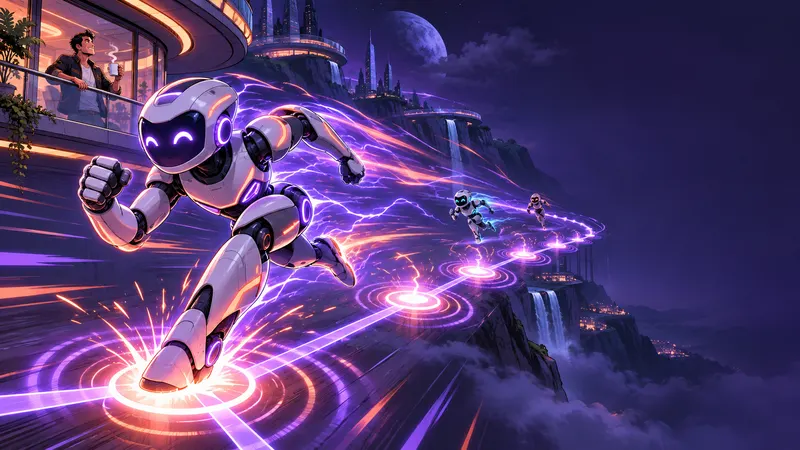
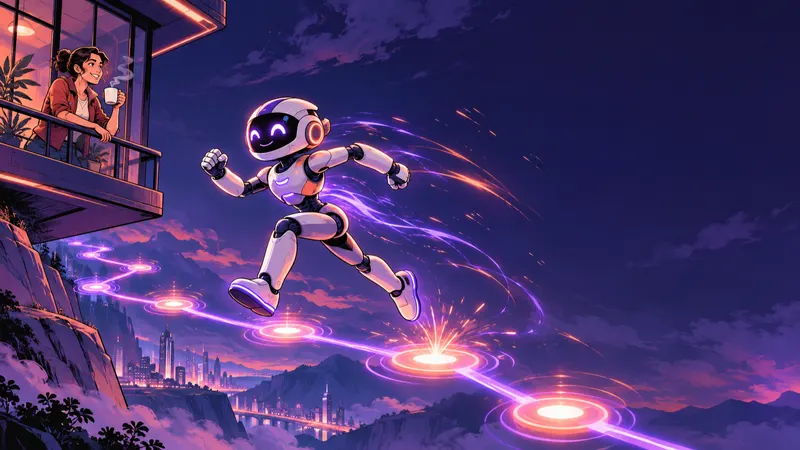
Agentportalen: sidan på engelska, ny live-bild, mjuka övergångar mellan sektionerna

diff --git a/agentportalen/index.html b/agentportalen/index.html
@@ -1,130 +1,130 @@
 <!doctype html>
-<html lang="sv">
+<html lang="en">
 <head>
 <meta charset="utf-8">
 <meta name="viewport" content="width=device-width, initial-scale=1, viewport-fit=cover">
 <meta name="theme-color" content="#16131f">
-<title>Agentportalen: led ditt AI-team från ett ställe</title>
-<meta name="description" content="En portal för hela ditt team av AI-agenter. En tråd per uppgift, svar som strömmar live, godkännanden med en knapp och mobilen i fickan. Ställ dig på väntelistan.">
-<meta property="og:title" content="Agentportalen: ett team, en portal, noll terminalkaos">
-<meta property="og:description" content="Led ditt team av AI-agenter från datorn och mobilen. Ställ dig på väntelistan.">
+<title>Agentportalen: run your AI team from one place</title>
+<meta name="description" content="One portal for your whole team of AI agents. One thread per task, answers that stream live, approvals with one tap, and your phone in your pocket. Join the waitlist.">
+<meta property="og:title" content="Agentportalen: one team, one portal, zero terminal chaos">
+<meta property="og:description" content="Run your team of AI agents from your desk and your phone. Join the waitlist.">
 <meta property="og:image" content="https://ducostudios.github.io/duco-demos/agentportalen/bilder/hero.webp">
 <meta property="og:type" content="website">
 <meta name="twitter:card" content="summary_large_image">
 <link rel="stylesheet" href="https://cdnjs.cloudflare.com/ajax/libs/font-awesome/6.5.2/css/all.min.css">
-<link rel="stylesheet" href="style.css">
+<link rel="stylesheet" href="style.css?v=2">
 </head>
 <body>
 
 <header class="topp">
   <a class="marke" href="#"><span class="fa-solid fa-diagram-project"></span> Agentportalen</a>
-  <a class="knapp liten" href="#ko">Väntelistan</a>
+  <a class="knapp liten" href="#ko">Waitlist</a>
 </header>
 
 <section class="scen hero" style="--bild:url('bilder/hero.webp')">
   <div class="scen-text">
-    <p class="etikett">Nu i tidig drift</p>
-    <h1>Ett team.<br>En portal.<br><span class="glod">Noll terminalkaos.</span></h1>
-    <p class="ingress">Agentportalen samlar alla dina AI-agenter på ett ställe. Du ger order, ser dem jobba live och fortsätter från mobilen när du går hemifrån.</p>
+    <p class="etikett">Now in early use</p>
+    <h1>One team.<br>One portal.<br><span class="glod">Zero terminal chaos.</span></h1>
+    <p class="ingress">Agentportalen brings all your AI agents together in one place. Give the orders, watch them work live, and pick up from your phone when you leave the desk.</p>
     <div class="knappar">
-      <a class="knapp" href="#ko"><span class="fa-solid fa-bolt"></span> Ställ mig i kön</a>
-      <a class="knapp spok" href="#tradar">Se hur det funkar</a>
+      <a class="knapp" href="#ko"><span class="fa-solid fa-bolt"></span> Get in line</a>
+      <a class="knapp spok" href="#tradar">See how it works</a>
     </div>
   </div>
 </section>
 
 <section class="problem">
   <div class="inner">
-    <h2>Känner du igen dig?</h2>
+    <h2>Sound familiar?</h2>
     <div class="kort-rad">
-      <div class="kort"><span class="fa-solid fa-terminal"></span><h3>Tolv terminaler öppna</h3><p>Lokala, remote, flikar i flikar. Vilken var det som jobbade med offerten?</p></div>
-      <div class="kort"><span class="fa-solid fa-shuffle"></span><h3>Fel tråd, igen</h3><p>Du skrev instruktionen till agenten som höll på med något helt annat.</p></div>
-      <div class="kort"><span class="fa-solid fa-eye-slash"></span><h3>Ingen överblick</h3><p>Vem jobbar just nu, vem väntar på dig, och vem har redan svarat?</p></div>
+      <div class="kort"><span class="fa-solid fa-terminal"></span><h3>Twelve terminals open</h3><p>Local, remote, tabs inside tabs. Which one was working on that proposal again?</p></div>
+      <div class="kort"><span class="fa-solid fa-shuffle"></span><h3>Wrong thread, again</h3><p>You just gave your instructions to the agent busy with something completely different.</p></div>
+      <div class="kort"><span class="fa-solid fa-eye-slash"></span><h3>No overview</h3><p>Who is working right now, who is waiting on you, and who already answered?</p></div>
     </div>
   </div>
 </section>
 
 <section id="tradar" class="scen" style="--bild:url('bilder/tradar.webp')">
   <div class="scen-text">
-    <p class="etikett"><span class="fa-solid fa-comments"></span> Trådar</p>
-    <h2 class="slagord">Rätt agent.<br>Rätt tråd.<br><span class="glod">Varje gång.</span></h2>
-    <p>Varje uppgift får en egen tråd med sin egen agent och sitt eget minne. Du ser alla trådar i en lista, med status på vem som jobbar, vem som väntar och vem som är klar.</p>
+    <p class="etikett"><span class="fa-solid fa-comments"></span> Threads</p>
+    <h2 class="slagord">Right agent.<br>Right thread.<br><span class="glod">Every time.</span></h2>
+    <p>Every task gets its own thread, with its own agent and its own memory. All threads sit in one list, showing who is working, who is waiting and who is done.</p>
   </div>
 </section>
 
-<section class="scen hoger" style="--bild:url('bilder/live.webp')">
+<section class="scen hoger" style="--bild:url('bilder/live.webp?v=2')">
   <div class="scen-text">
     <p class="etikett"><span class="fa-solid fa-wave-square"></span> Live</p>
-    <h2 class="slagord">Se det hända<br><span class="glod">medan det händer.</span></h2>
-    <p>Svaren strömmar in ord för ord. Flödespanelen visar varje steg agenten tar, med tid, och pulserar medan det pågår. Klicka på ett steg så hoppar du dit i chatten.</p>
+    <h2 class="slagord">Watch it happen<br><span class="glod">as it happens.</span></h2>
+    <p>Answers stream in word by word. The flow panel shows every step the agent takes, with timing, pulsing while it runs. Tap a step to jump straight to it in the chat.</p>
   </div>
 </section>
 
 <section class="scen" style="--bild:url('bilder/spaken.webp')">
   <div class="scen-text">
-    <p class="etikett"><span class="fa-solid fa-hand"></span> Godkännanden</p>
-    <h2 class="slagord">Agenterna jobbar.<br><span class="glod">Du håller i spaken.</span></h2>
-    <p>När en agent vill göra något som kräver ditt ja, dyker frågan upp som en knapp. Tillåt eller neka. Inget smyger förbi, och du kan stoppa en agent mitt i ett steg.</p>
+    <p class="etikett"><span class="fa-solid fa-hand"></span> Approvals</p>
+    <h2 class="slagord">The agents do the work.<br><span class="glod">You hold the lever.</span></h2>
+    <p>When an agent wants to do something that needs your yes, the question pops up as a button. Allow or deny. Nothing slips past you, and you can stop an agent mid-step.</p>
   </div>
 </section>
 
 <section class="scen hoger" style="--bild:url('bilder/stafett.webp')">
   <div class="scen-text">
-    <p class="etikett"><span class="fa-solid fa-link"></span> Delad kunskap</p>
-    <h2 class="slagord">Inget faller<br><span class="glod">mellan stolarna.</span></h2>
-    <p>Trådarna kan läsa varandra. Länka in en tidigare tråd som underlag, eller låt agenten själv söka upp vad ni kom fram till förra veckan, i stället för att gissa.</p>
+    <p class="etikett"><span class="fa-solid fa-link"></span> Shared knowledge</p>
+    <h2 class="slagord">Nothing falls<br><span class="glod">through the cracks.</span></h2>
+    <p>Threads can read each other. Link an earlier thread as context, or let the agent look up what you decided last week on its own, instead of guessing.</p>
   </div>
 </section>
 
 <section class="scen" style="--bild:url('bilder/fickan.webp')">
   <div class="scen-text">
-    <p class="etikett"><span class="fa-solid fa-mobile-screen"></span> Mobilen</p>
-    <h2 class="slagord">Hela kontoret<br><span class="glod">i fickan.</span></h2>
-    <p>Byggd mobil först. Starta en uppgift vid skrivbordet, godkänn nästa steg från caféet och läs resultatet på vägen hem. Samma trådar, samma team.</p>
+    <p class="etikett"><span class="fa-solid fa-mobile-screen"></span> Mobile</p>
+    <h2 class="slagord">The whole office<br><span class="glod">in your pocket.</span></h2>
+    <p>Built mobile first. Start a task at your desk, approve the next step from a café terrace and read the result on the way home. Same threads, same team.</p>
   </div>
 </section>
 
 <section class="scen hoger" style="--bild:url('bilder/hemma.webp')">
   <div class="scen-text">
-    <p class="etikett"><span class="fa-solid fa-shield-halved"></span> Säkerhet</p>
-    <h2 class="slagord">Dina filer.<br>Din dator.<br><span class="glod">Dina regler.</span></h2>
-    <p>Agentportalen körs på din egen maskin, med dina egna verktyg och nycklar. Telefonen parkopplas med en kod, och portalen står inte öppen på internet.</p>
+    <p class="etikett"><span class="fa-solid fa-shield-halved"></span> Security</p>
+    <h2 class="slagord">Your files.<br>Your machine.<br><span class="glod">Your rules.</span></h2>
+    <p>Agentportalen runs on your own computer, with your own tools and keys. Your phone pairs with a code, and the portal is not left open on the internet.</p>
   </div>
 </section>
 
 <section class="siffror">
   <div class="inner">
-    <div><strong>1</strong><span>portal för hela teamet</span></div>
-    <div><strong>0</strong><span>terminaler att hålla reda på</span></div>
-    <div><strong>1</strong><span>knapp för att säga ja</span></div>
+    <div><strong>1</strong><span>portal for the whole team</span></div>
+    <div><strong>0</strong><span>terminals to keep track of</span></div>
+    <div><strong>1</strong><span>tap to say yes</span></div>
   </div>
 </section>
 
 <section id="ko" class="scen ko" style="--bild:url('bilder/ko.webp')">
   <div class="ko-ruta">
-    <p class="etikett"><span class="fa-solid fa-door-open"></span> Väntelistan</p>
-    <h2 class="slagord">Ställ dig<br><span class="glod">först i kön.</span></h2>
-    <p>Vi öppnar i omgångar. De som står på listan får börja först, och får följa bygget på vägen.</p>
+    <p class="etikett"><span class="fa-solid fa-door-open"></span> Waitlist</p>
+    <h2 class="slagord">Be first<br><span class="glod">in line.</span></h2>
+    <p>We are opening up in rounds. People on the list get in first, and get to follow the build along the way.</p>
     <form id="anmalan" novalidate>
-      <label class="dold" for="namn">Förnamn</label>
-      <input id="namn" name="namn" type="text" placeholder="Förnamn" autocomplete="given-name" maxlength="200">
-      <label class="dold" for="email">E-post</label>
-      <input id="email" name="email" type="email" placeholder="din@epost.se" autocomplete="email" required maxlength="320">
+      <label class="dold" for="namn">First name</label>
+      <input id="namn" name="namn" type="text" placeholder="First name" autocomplete="given-name" maxlength="200">
+      <label class="dold" for="email">Email</label>
+      <input id="email" name="email" type="email" placeholder="you@email.com" autocomplete="email" required maxlength="320">
       <div class="faella" aria-hidden="true"><input name="webbplats" tabindex="-1" autocomplete="off"></div>
       <div class="samtycke">
         <input id="samtycke" name="samtycke" type="checkbox" required>
-        <label for="samtycke">Ja, mejla mig när Agentportalen öppnar, och ibland om hur bygget går. Jag kan avsluta när jag vill.</label>
+        <label for="samtycke">Yes, email me when Agentportalen opens, and now and then about how the build is going. I can unsubscribe at any time.</label>
       </div>
-      <button class="knapp stor" type="submit"><span class="fa-solid fa-bolt"></span> Ställ mig i kön</button>
+      <button class="knapp stor" type="submit"><span class="fa-solid fa-bolt"></span> Get in line</button>
       <p id="status" class="status" role="status" aria-live="polite"></p>
     </form>
   </div>
 </section>
 
 <footer class="fot">
-  <p>Agentportalen är ett projekt från Duco Studios. Vi sparar bara det du skriver här, för att kunna mejla dig om Agentportalen. Avsluta när du vill via länken i varje mejl.</p>
+  <p>Agentportalen is a project by Duco Studios. We only store what you enter here, so we can email you about Agentportalen. Unsubscribe any time with the link in every email.</p>
 </footer>
 
-<script src="app.js"></script>
+<script src="app.js?v=2"></script>
 </body>
 </html>

diff --git a/agentportalen/app.js b/agentportalen/app.js
@@ -19,22 +19,22 @@
   form.addEventListener("submit", function (e) {
     e.preventDefault();
     var email = form.email.value.trim();
-    if (!/^[^\s@]+@[^\s@]+\.[^\s@]+$/.test(email)) { visa("Skriv en giltig e-postadress.", "fel"); return; }
-    if (!form.samtycke.checked) { visa("Kryssa i rutan så att vi får mejla dig när vi öppnar.", "fel"); return; }
+    if (!/^[^\s@]+@[^\s@]+\.[^\s@]+$/.test(email)) { visa("Please enter a valid email address.", "fel"); return; }
+    if (!form.samtycke.checked) { visa("Tick the box so we are allowed to email you when we open.", "fel"); return; }
     var knapp = form.querySelector("button");
-    knapp.disabled = true; visa("Skickar...");
-    var data = { konto: "agentportal", magnet: "agentportal-vantelista", email: email, samtycke: true, kalla: "agentportalen-sida" };
+    knapp.disabled = true; visa("Sending...");
+    var data = { konto: "agentportal", magnet: "agentportal-vantelista", email: email, samtycke: true, kalla: "agentportalen-sida-en" };
     var namn = form.namn.value.trim();
     if (namn) data.namn = namn;
     if (form.webbplats.value) data.webbplats = form.webbplats.value;
     fetch(API, { method: "POST", headers: { "Content-Type": "application/json" }, body: JSON.stringify(data) })
       .then(function (r) {
-        if (r.status === 429) throw new Error("För många försök. Vänta en stund och prova igen.");
-        if (!r.ok) throw new Error("Något gick fel. Prova igen om en stund.");
+        if (r.status === 429) throw new Error("Too many attempts. Wait a moment and try again.");
+        if (!r.ok) throw new Error("Something went wrong. Please try again in a moment.");
         form.reset();
-        visa("Klart! Du står i kön. Vi hör av oss när det är din tur.", "ok");
+        visa("Done! You are in line. We will be in touch when it is your turn.", "ok");
       })
-      .catch(function (err) { visa(err.message || "Något gick fel. Prova igen om en stund.", "fel"); })
+      .catch(function (err) { visa(err.message || "Something went wrong. Please try again in a moment.", "fel"); })
       .finally(function () { knapp.disabled = false; });
   });
 })();

diff --git a/agentportalen/style.css b/agentportalen/style.css
@@ -57,17 +57,20 @@ a { color: inherit; }
   content: ""; position: absolute; inset: 0; z-index: -1;
   background:
     linear-gradient(90deg, #0f0c17f2 0%, #0f0c17c0 38%, #0f0c1720 70%, #0f0c1700 100%),
-    linear-gradient(0deg, #0f0c17 0%, #0f0c1700 22%);
+    linear-gradient(0deg, #0f0c17 0%, #0f0c1700 22%),
+    linear-gradient(180deg, #0f0c17 0%, #0f0c1700 16%);
 }
 .scen.hoger { justify-content: flex-end; }
 .scen.hoger::before {
   background:
     linear-gradient(270deg, #0f0c17f2 0%, #0f0c17c0 38%, #0f0c1720 70%, #0f0c1700 100%),
-    linear-gradient(0deg, #0f0c17 0%, #0f0c1700 22%);
+    linear-gradient(0deg, #0f0c17 0%, #0f0c1700 22%),
+    linear-gradient(180deg, #0f0c17 0%, #0f0c1700 16%);
 }
 .scen-text { max-width: 560px; }
 .scen-text > p:not(.etikett) { color: #c9c2dc; font-size: 18px; text-shadow: 0 1px 14px #0f0c17, 0 0 4px #0f0c17; }
 .hero { min-height: 100vh; }
+.hero::before { background: linear-gradient(90deg, #0f0c17f2 0%, #0f0c17c0 38%, #0f0c1720 70%, #0f0c1700 100%), linear-gradient(0deg, #0f0c17 0%, #0f0c1700 22%); }
 .hero h1 { font-size: clamp(46px, 7.5vw, 96px); font-weight: 900; }
 .ingress { font-size: 20px !important; color: #ddd7ec !important; }
 .slagord { font-size: clamp(40px, 6vw, 76px); font-weight: 900; text-transform: none; }
